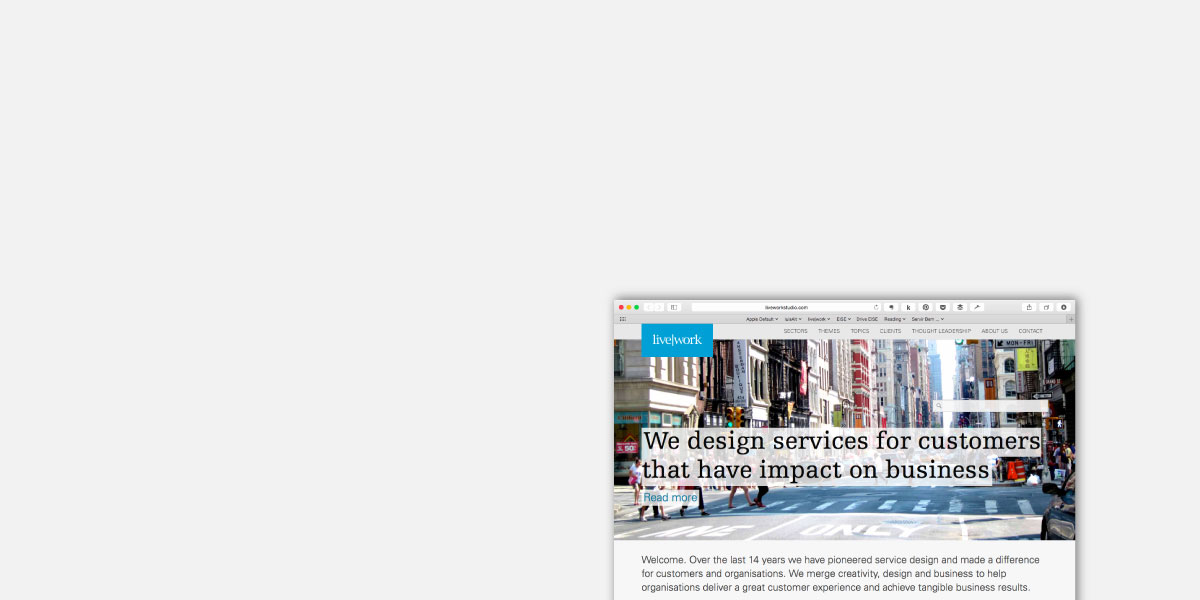
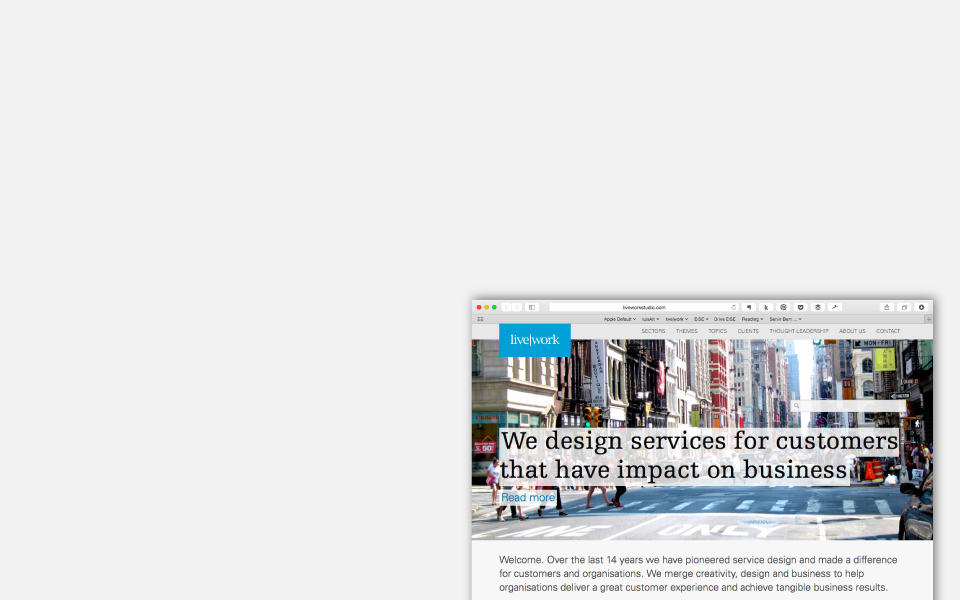
Removed Margin.

Changed region(s): [[0.4688, 0.48, 1.0, 1.0]]

diff --git a/index.html b/index.html
@@ -51,7 +51,7 @@
 		<div class="livework">
 			<div class="container">
 			<h1>Livework</h1>
-			<p>After establishing myself as one of the first Service Design practitioners in Brazil, I decided to bring the first and best agency in the world to the country, becoming a partner for Livework in Latin America. For more than half a decade I’ve been involved in growing the service innovation market by doing projects for that:</p>
+			<p>After establishing myself as one of the first Service Design practitioners in Brazil, I decided to bring the first and best agency in the world to the country, becoming a partner for Livework in Latin America. For more than half a decade I’ve been involved in growing the service innovation market by doing projects that:</p>
 			<ul>
 				<li>build innovation and design capacity inside organisations</li>
 				<li>improve the way companies provide services rethink business models from a product to a service strategy</li>

diff --git a/css/styles.css b/css/styles.css
@@ -9,6 +9,11 @@
     text-transform: uppercase;
 }
 
+.container {
+    width:960px;
+    margin:0 auto;
+}
+
 .hello {
     min-height: 400px;
     background-color: gray;
@@ -166,7 +171,7 @@
     font-weight: bold;
     font-family: 'Open Sans', sans-serif;
     padding: 20px 20px 0 20px;
-    line-height: 36px;
+    line-height: 40px;
     text-decoration: underline;
     font-style: italic;
 
